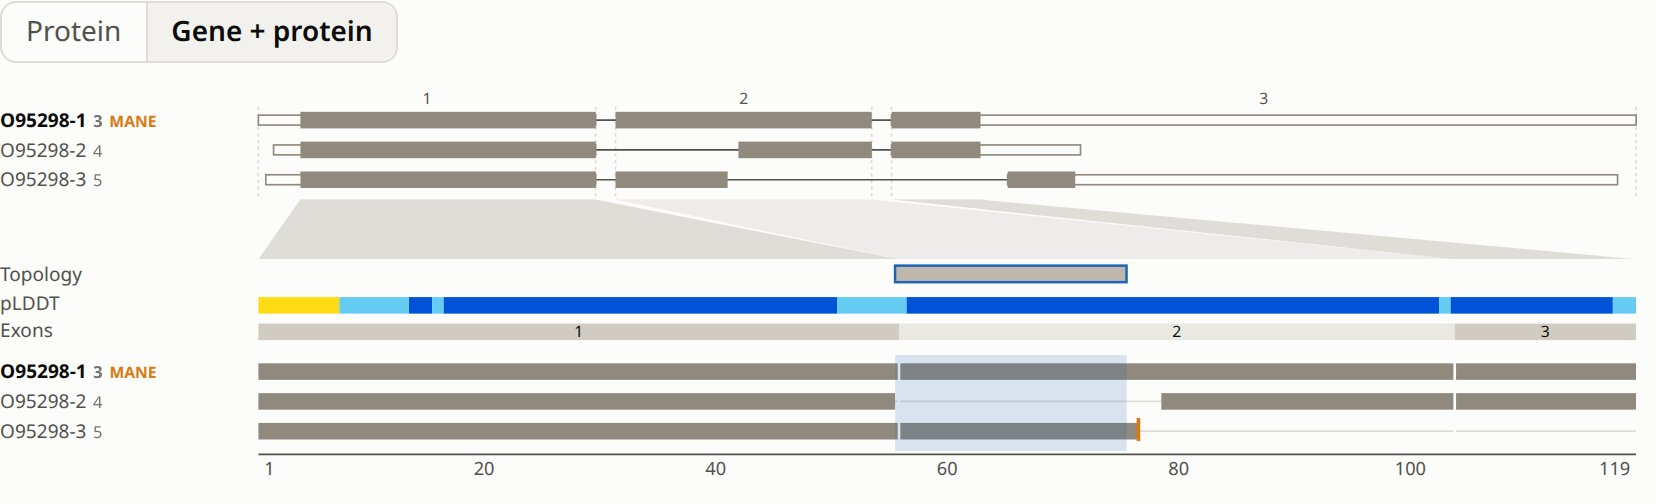
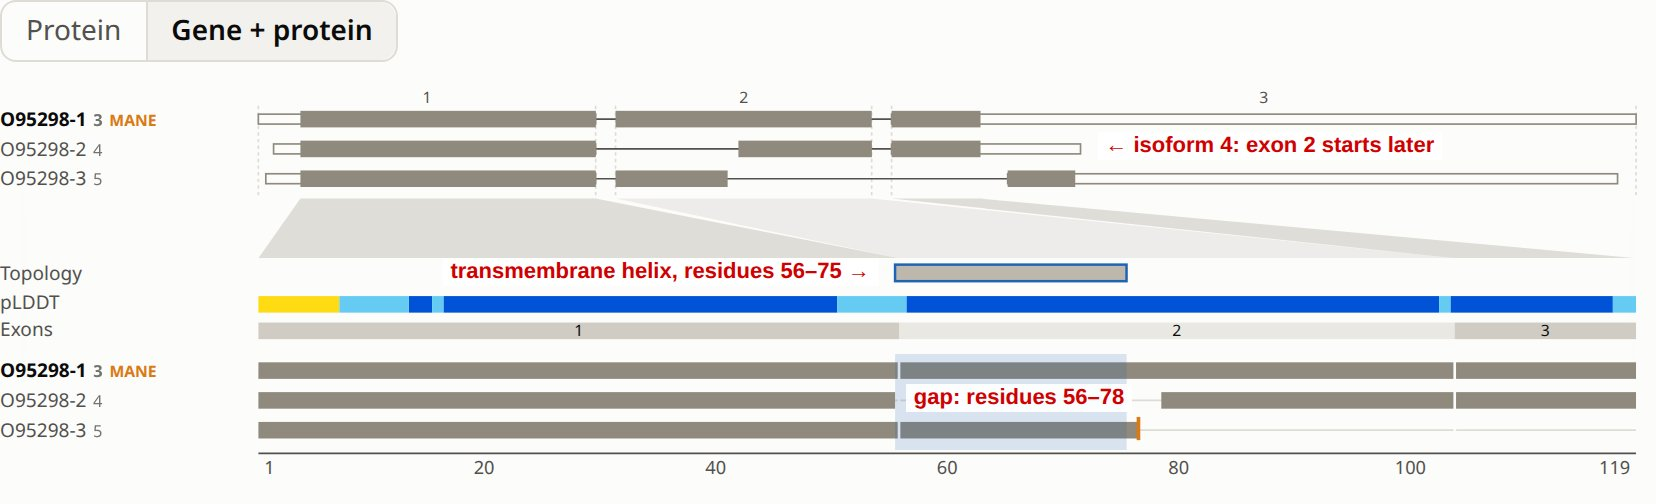
One RefSeq or GENCODE track per JBrowse link, and red notes on the blog's figures
JBrowse links opened both RefSeq and GENCODE, drawing every gene twice.
They now open only the track that holds the transcript, RefSeq by default.

The F2RL2 and ZDHHC16 figures are captured from their own sessions with
transcript names shown, the relevant stretches shaded and red notes on
them; the NDUFC2 figure gets notes too. The ZDHHC16 capture waits for its
labels instead of a fixed delay.

diff --git a/src/heroes.ts b/src/heroes.ts
@@ -22,6 +22,8 @@ const TYPES: Record<string, string> = {
   '.webp': 'image/webp',
 }
 
+const GENOME_VIEW = '[data-testid^="linear-genome-view-"]'
+
 interface Shot {
   name: string
   dir: 'heroes' | 'figures'
@@ -99,6 +101,7 @@ const SHOTS: Shot[] = [
     path: 'gene/NDUFC2/',
     click: 'label:has(input[value="gene"])',
     hover: 'g.f[data-span="56-75"]',
+    prepare: annotateNdufc2,
     clip: ['.view-toggle', '.map-wrap'],
     width: 860,
     height: 900,
@@ -107,36 +110,48 @@ const SHOTS: Shot[] = [
   {
     name: 'zdhhc16-splice-changes',
     dir: 'figures',
-    path: sessionUrl(
-      {
-        views: [
-          {
-            type: 'LinearGenomeView',
-            assembly: 'hg38',
-            loc: 'chr10:97452350-97453900',
-            tracks: [REFSEQ_TRACK],
-            highlight: ['chr10:97452895-97452923', 'chr10:97453530-97453617'],
-          },
-        ],
-      },
-      jbrowseUrl(
-        'https://cmdcolin.github.io/isoform-explorer/jbrowse/config.json',
-      ),
-    ),
+    path: genomeSession('chr10:97452300-97453950', [
+      'chr10:97452895-97452923',
+      'chr10:97453530-97453617',
+    ]),
     prepare: annotateZdhhc16,
-    clip: ['[data-testid^="linear-genome-view-"]'],
+    clip: [GENOME_VIEW],
+    width: 1600,
     height: 800,
-    wait: 3,
+    wait: 1,
   },
   {
     name: 'f2rl2-genome',
     dir: 'figures',
-    path: 'gene/F2RL2/',
-    follow: '.gene-head a.button[href*="LinearGenomeView"]',
-    height: 460,
-    wait: 30,
+    path: genomeSession('chr5:76615423-76623700', [
+      'chr5:76623167-76623230',
+      'chr5:76618638-76618640',
+    ]),
+    prepare: annotateF2rl2,
+    clip: [GENOME_VIEW],
+    height: 800,
+    wait: 1,
   },
 ]
+
+function genomeSession(loc: string, highlight: string[]) {
+  return sessionUrl(
+    {
+      views: [
+        {
+          type: 'LinearGenomeView',
+          assembly: 'hg38',
+          loc,
+          tracks: [REFSEQ_TRACK],
+          highlight,
+        },
+      ],
+    },
+    jbrowseUrl(
+      'https://cmdcolin.github.io/isoform-explorer/jbrowse/config.json',
+    ),
+  )
+}
 
 async function pickFromTrackMenu(page: Page, submenu: string, item: string) {
   await page.locator('[data-testid="track_menu_icon"]').first().click()
@@ -152,29 +167,63 @@ async function closeMenus(page: Page) {
   }
 }
 
-async function annotateZdhhc16(page: Page) {
-  await page.getByTestId('app-ready-marker').waitFor({ state: 'attached' })
-  await page.waitForTimeout(10_000)
+async function showTranscriptNames(page: Page, gene: string, last: string) {
+  await page.getByTestId(`feature-name-${gene}`).waitFor()
   await pickFromTrackMenu(page, 'Subfeature labels', 'Below')
-  await page.getByText('Isoforms trimmed').click()
-  await page.getByText('All transcripts', { exact: true }).click()
-  await closeMenus(page)
+  const trimmed = page.getByText('Isoforms trimmed')
+  if (await trimmed.isVisible()) {
+    await trimmed.click()
+    await page.getByText('All transcripts', { exact: true }).click()
+    await closeMenus(page)
+  }
   await pickFromTrackMenu(page, 'Feature height', 'Normal')
   await pickFromTrackMenu(page, 'Feature height', 'Grow the track')
   await page.mouse.move(0, 0)
-  await page.waitForTimeout(2000)
+  await page.getByText(last, { exact: true }).waitFor()
   await page.locator('[data-testid="track_menu_icon"]').first().blur()
+}
+
+function boxes(page: Page) {
   const box = (locator: Locator) => locator.first().boundingBox()
-  const [track, exon6, exon7, canonical, isoform3] = await Promise.all([
-    box(page.getByTestId(/^trackRenderingContainer-/)),
-    box(page.getByTestId('highlight-band').nth(0)),
-    box(page.getByTestId('highlight-band').nth(1)),
-    box(page.getByText('NM_198046.3', { exact: true })),
-    box(page.getByText('NM_198044.3', { exact: true })),
+  return {
+    track: () => box(page.getByTestId(/^trackRenderingContainer-/)),
+    chip: () => box(page.getByTestId('highlight-chip')),
+    band: (n: number) => box(page.getByTestId('highlight-band').nth(n)),
+    text: (text: string) => box(page.getByText(text, { exact: true })),
+  }
+}
+
+async function overlay(page: Page, notes: string[]) {
+  await page
+    .locator('body')
+    .evaluate(
+      (body, html) => body.insertAdjacentHTML('beforeend', html),
+      notes.join(''),
+    )
+}
+
+async function annotateZdhhc16(page: Page) {
+  await showTranscriptNames(page, 'ZDHHC16', 'NR_109895.2')
+  const find = boxes(page)
+  const [track, chip, exon6, exon7, canonical, isoform3] = await Promise.all([
+    find.track(),
+    find.chip(),
+    find.band(0),
+    find.band(1),
+    find.text('NM_198046.3'),
+    find.text('NM_198044.3'),
   ])
-  const html =
-    track && exon6 && exon7 && canonical && isoform3
+  await overlay(
+    page,
+    track && chip && exon6 && exon7 && canonical && isoform3
       ? [
+          ...exonNotes(exon6, exon7, track.y + track.height - 24),
+          note(
+            '117 bases in all: residues 176–214, with the DHHC motif at 182–185',
+            (exon6.x + exon6.width + exon7.x) / 2,
+            chip.y,
+            '-50%',
+          ),
           outline(canonical),
           outline(isoform3),
           note(
@@ -196,21 +245,124 @@ async function annotateZdhhc16(page: Page) {
             track.y + track.height - 24,
             '-50%',
           ),
-        ].join('')
-      : ''
-  await page
-    .locator('body')
-    .evaluate((body, html) => body.insertAdjacentHTML('beforeend', html), html)
+        ]
+      : [],
+  )
+}
+
+async function annotateNdufc2(page: Page) {
+  const box = (selector: string) => page.locator(selector).first().boundingBox()
+  const [helix, protein, transcript] = await Promise.all([
+    box('svg.map g.f.tm[data-span="56-75"]'),
+    box('svg.map g.iso[data-isoform="O95298-2"]'),
+    box('svg.structure g.exon[data-span="104-119"] >> nth=1'),
+  ])
+  await overlay(
+    page,
+    helix && protein && transcript
+      ? [
+          note(
+            'transmembrane helix, residues 56–75 →',
+            helix.x - 8,
+            helix.y + helix.height / 2 - 8,
+            '-100%',
+            RED,
+            11,
+          ),
+          note(
+            'gap: residues 56–78',
+            helix.x + 6,
+            protein.y + protein.height / 2 - 8,
+            '0',
+            RED,
+            11,
+          ),
+          note(
+            '← isoform 4: exon 2 starts later',
+            transcript.x + transcript.width + 8,
+            transcript.y + transcript.height / 2 - 8,
+            '0',
+            RED,
+            11,
+          ),
+        ]
+      : [],
+  )
+}
+
+async function annotateF2rl2(page: Page) {
+  await showTranscriptNames(page, 'F2RL2', 'NM_001256566.2')
+  const find = boxes(page)
+  const [neighbour, signal, start, canonical, isoform2] = await Promise.all([
+    find.text('NM_001285460.2'),
+    find.band(0),
+    find.band(1),
+    find.text('NM_004101.4'),
+    find.text('NM_001256566.2'),
+  ])
+  await overlay(
+    page,
+    neighbour && signal && start && canonical && isoform2
+      ? [
+          note(
+            '← IQGAP2, on the other strand: F2RL2 lies in one of its introns',
+            neighbour.x + neighbour.width + 8,
+            neighbour.y - 2,
+            '0',
+            '#555',
+          ),
+          outline(canonical),
+          outline(isoform2),
+          note(
+            'MANE Select: signal peptide, residues 1–21 →',
+            signal.x - 8,
+            canonical.y - 12,
+            '-100%',
+          ),
+          note(
+            'isoform 2: exon 1 untranslated →',
+            signal.x - 8,
+            isoform2.y - 12,
+            '-100%',
+          ),
+          note(
+            '← isoform 2 starts here, at methionine 23',
+            start.x + start.width + 8,
+            isoform2.y - 12,
+            '0',
+          ),
+        ]
+      : [],
+  )
 }
 
 const RED = '#d00000'
 
-function outline(b: { x: number; y: number; width: number; height: number }) {
+type Box = { x: number; y: number; width: number; height: number }
+
+function exonNotes(exon6: Box, exon7: Box, y: number) {
+  const pxPerBase = (exon7.x - exon6.x) / (97453530 - 97452895)
+  const centre = (start: number, end: number) =>
+    exon6.x + ((start + end) / 2 - 97452895) * pxPerBase
+  return [
+    note('exon 5', centre(97452415, 97452503), y, '-50%', '#333'),
+    note('exon 8', centre(97453799, 97453846), y, '-50%', '#333'),
+  ]
+}
+
+function outline(b: Box) {
   return `<div style="position:absolute;left:${b.x - 3}px;top:${b.y - 1}px;width:${b.width + 6}px;height:${b.height + 2}px;border:2px solid ${RED};border-radius:3px;z-index:10000;pointer-events:none"></div>`
 }
 
-function note(text: string, x: number, y: number, shift: string) {
-  return `<div style="position:absolute;left:${x}px;top:${y}px;transform:translateX(${shift});color:${RED};font:bold 14px Roboto,sans-serif;background:rgba(255,255,255,0.9);padding:1px 4px;white-space:nowrap;z-index:10000;pointer-events:none">${text}</div>`
+function note(
+  text: string,
+  x: number,
+  y: number,
+  shift: string,
+  colour = RED,
+  size = 14,
+) {
+  return `<div style="position:absolute;left:${x}px;top:${y}px;transform:translateX(${shift});color:${colour};font:bold ${size}px Roboto,sans-serif;background:rgba(255,255,255,0.9);padding:1px 4px;white-space:nowrap;z-index:10000;pointer-events:none">${text}</div>`
 }
 
 function serve() {

diff --git a/src/links.test.ts b/src/links.test.ts
@@ -27,20 +27,20 @@ describe('links', () => {
     )
   })
 
-  test('transcripts on the genome are found by gene symbol, RefSeq above GENCODE', () => {
+  test('transcripts on the genome are found by gene symbol, on the RefSeq track alone', () => {
     expect(sessionOf(transcriptsUrl('TP53', JBROWSE))).toEqual({
       views: [
         {
           type: 'LinearGenomeView',
           assembly: 'hg38',
           loc: 'TP53',
-          tracks: ['hg38-ncbiRefSeqCurated', 'hg38-gencodeComp'],
+          tracks: ['hg38-ncbiRefSeqCurated'],
         },
       ],
     })
   })
 
-  test('an isoform opens superposed on the canonical, its transcript looked up in the first track', () => {
+  test('an isoform opens superposed on the canonical, its transcript on the one track that holds it', () => {
     const structures = [{ url: 'isoform.cif' }, { url: 'canonical.cif' }]
     expect(
       sessionOf(isoformUrl('TP53', 'NM_001126114.3', structures, JBROWSE)),
@@ -53,7 +53,7 @@ describe('links', () => {
           structures,
           connectedView: {
             assembly: 'hg38',
-            tracks: ['hg38-ncbiRefSeqCurated', 'hg38-gencodeComp'],
+            tracks: ['hg38-ncbiRefSeqCurated'],
           },
         },
       ],
@@ -61,7 +61,7 @@ describe('links', () => {
     expect(
       isoformSpec('TP53', 'ENST00000269305', structures).views[0]?.connectedView
         .tracks,
-    ).toEqual(['hg38-gencodeComp', 'hg38-ncbiRefSeqCurated'])
+    ).toEqual(['hg38-gencodeComp'])
     expect(
       isoformSpec('TP53', undefined, structures).views[0],
     ).not.toHaveProperty('transcriptId')
@@ -81,7 +81,7 @@ describe('links', () => {
       ).views[0].connectedView,
     ).toEqual({
       assembly: 'hg38',
-      tracks: ['hg38-ncbiRefSeqCurated', 'hg38-gencodeComp'],
+      tracks: ['hg38-ncbiRefSeqCurated'],
       loc: 'chr17:7668402-7687546',
     })
   })

diff --git a/src/links.ts b/src/links.ts
@@ -10,9 +10,7 @@ export function sessionUrl(spec: object, jbrowse: string) {
 }
 
 export function transcriptTracks(transcriptId?: string) {
-  return transcriptId?.startsWith('ENST')
-    ? [GENCODE_TRACK, REFSEQ_TRACK]
-    : [REFSEQ_TRACK, GENCODE_TRACK]
+  return [transcriptId?.startsWith('ENST') ? GENCODE_TRACK : REFSEQ_TRACK]
 }
 
 export function transcriptsSpec(gene: string) {
